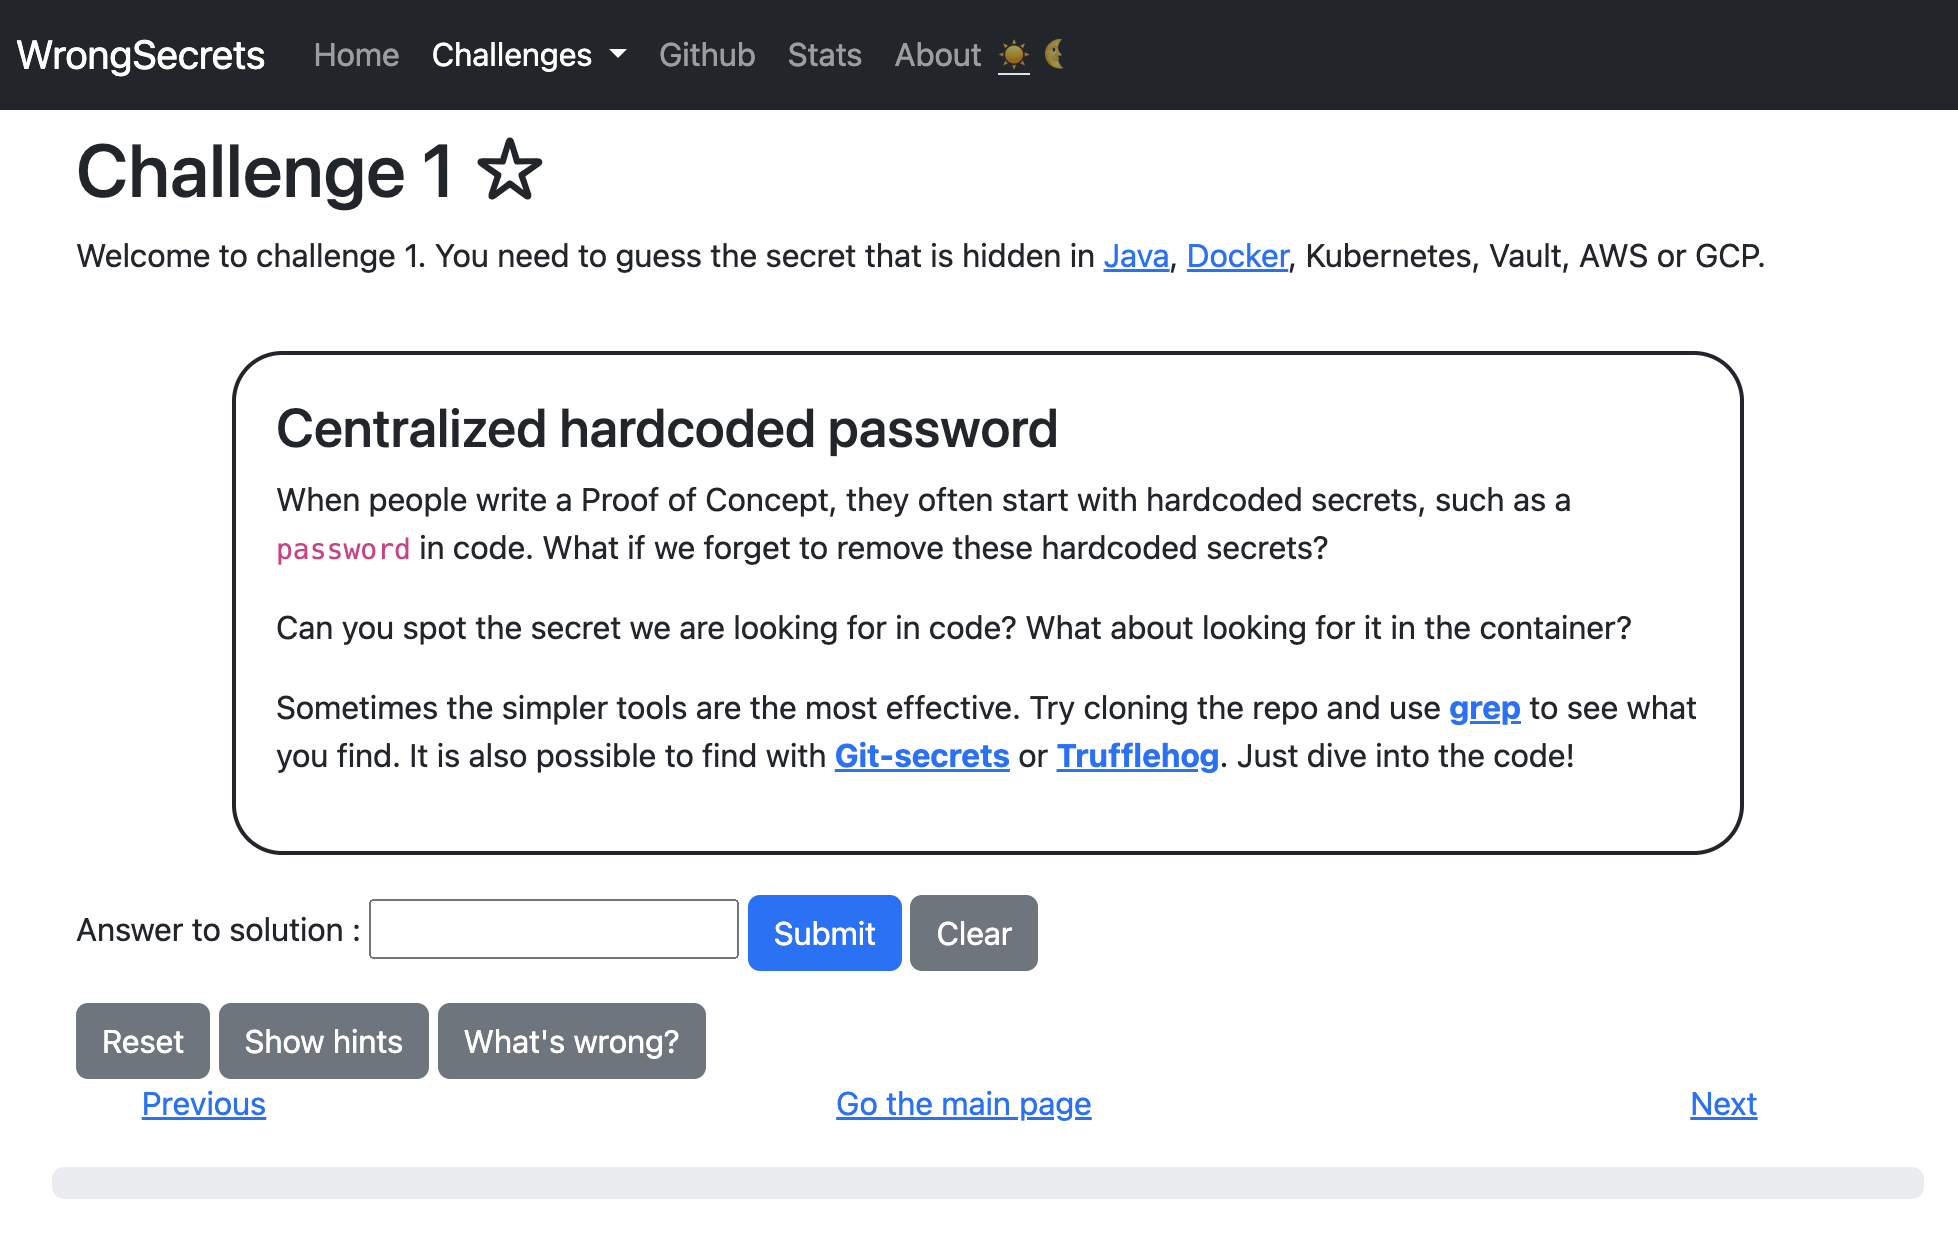
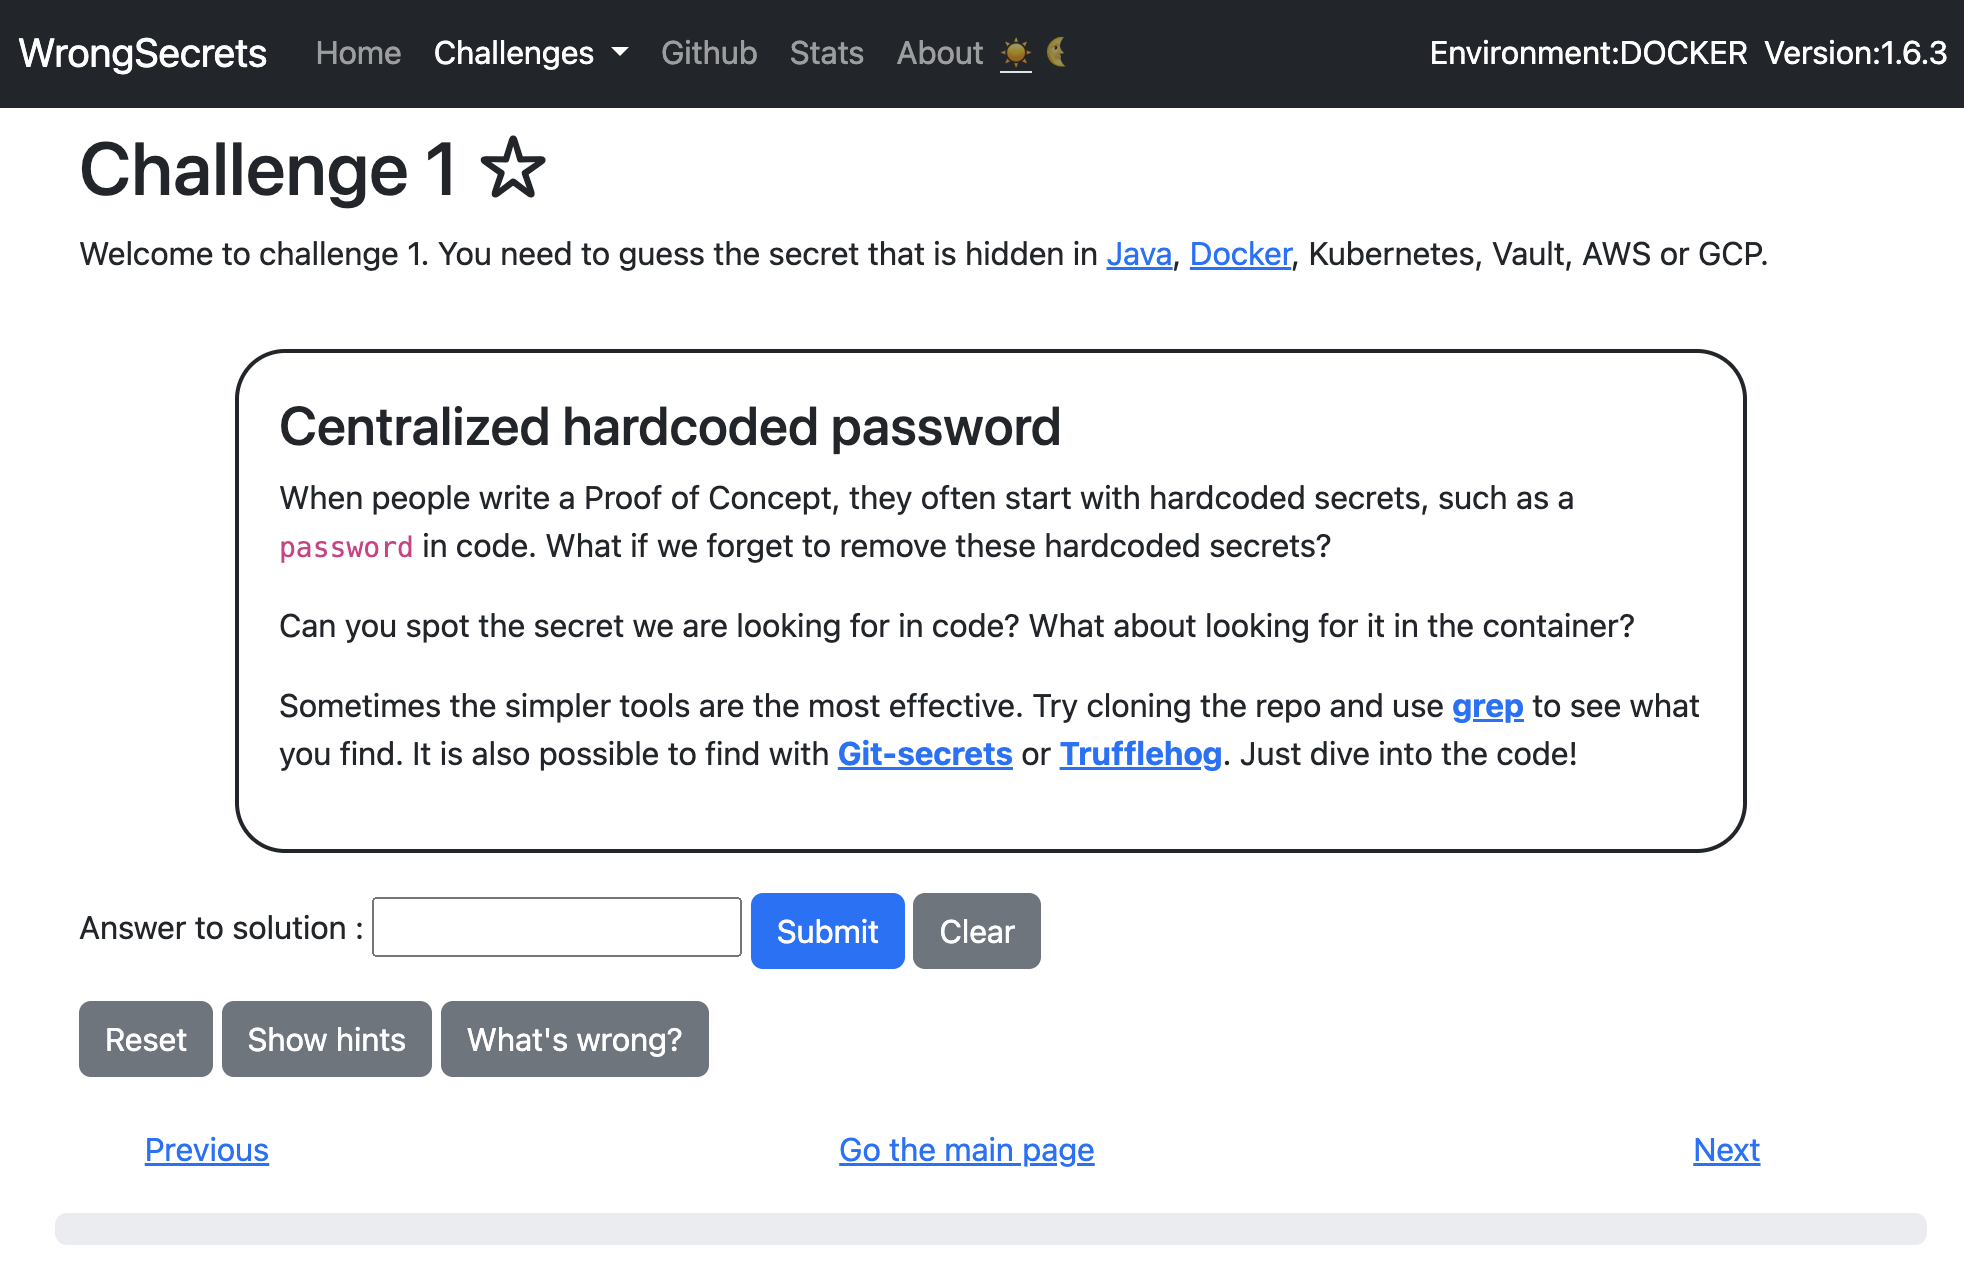
Bugfixes in challenge ui\n

diff --git a/src/main/resources/templates/fragments/header.html b/src/main/resources/templates/fragments/header.html
@@ -67,11 +67,11 @@
 
                 </ul>
                 <a th:if="${ctf_enabled != null && ctf_enabled == true}" class="nav-link disabled me-2" href="#"
-                   tabindex="-1" aria-disabled="true">In CTF-mode</a>
+                   tabindex="-1" aria-disabled="true" style="color:white">In CTF-mode</a>
                 <a class="nav-link disabled me-2" href="#" tabindex="-1" aria-disabled="true"
-                   th:text="'Environment:'+${environment}"></a>
+                   th:text="'Environment:'+${environment}" style="color:white"></a>
                 <a class="nav-link disabled me-2" href="#" tabindex="-1" aria-disabled="true"
-                   th:text="'Version:'+${version}"></a>
+                   th:text="'Version:'+${version}" style="color:white"></a>
             </div>
         </div>
     </nav>

diff --git a/src/main/resources/templates/challenge.html b/src/main/resources/templates/challenge.html
@@ -62,6 +62,7 @@
             </div>
         </form>
     </div>
+    <br/>
     <div class="row">
         <div th:replace="~{fragments/navigation :: navigation}"></div>
 
